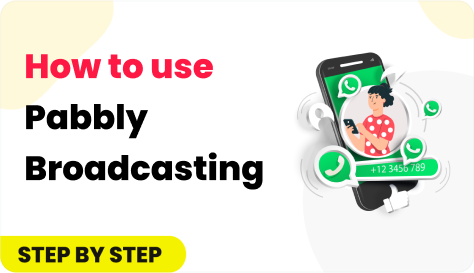
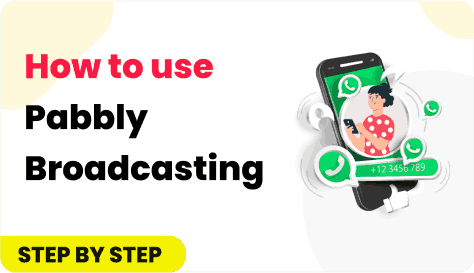
Images optimized and Solved Double Popup Open in Add Buld Contact

diff --git a/src/components/upload2/upload2.jsx b/src/components/upload2/upload2.jsx
@@ -1,34 +1,45 @@
-import React, { useState } from 'react';
-import { useDropzone } from 'react-dropzone';
+import React, { useRef, useState } from 'react';
 
-import { Box, Button, Typography, InputLabel } from '@mui/material';
+import { Box, Button, Typography } from '@mui/material';
 
-// import CloudUploadIcon from '@mui/icons-material/CloudUpload';
 import { varAlpha } from 'src/theme/styles';
 
 const FileUpload = ({ placeholder, error, disabled, sx, onFileUpload, ...other }) => {
   const [selectedFile, setSelectedFile] = useState(null);
+  const fileInputRef = useRef(null);
 
-  const onDrop = (acceptedFiles) => {
-    if (acceptedFiles.length > 0) {
-      const file = acceptedFiles[0];
+  const handleFileChange = (event) => {
+    const file = event.target.files[0];
+    if (file) {
+      setSelectedFile(file);
+      onFileUpload(file);
+    }
+    // Reset the file input value to allow selecting the same file again
+    event.target.value = '';
+  };
+
+  const handleButtonClick = (event) => {
+    event.preventDefault();
+    fileInputRef.current.click();
+  };
+
+  const handleDragOver = (event) => {
+    event.preventDefault();
+  };
+
+  const handleDrop = (event) => {
+    event.preventDefault();
+    const file = event.dataTransfer.files[0];
+    if (file && file.type === 'text/csv') {
       setSelectedFile(file);
       onFileUpload(file);
     }
   };
 
-  const { getRootProps, getInputProps, isDragActive, isDragReject } = useDropzone({
-    onDrop,
-    disabled,
-    accept: 'text/csv',
-    ...other,
-  });
-
-  const hasError = isDragReject || error;
-
   return (
     <Box
-      {...getRootProps()}
+      onDragOver={handleDragOver}
+      onDrop={handleDrop}
       sx={{
         padding: '20px 0px 20px 0px',
         width: '100%',
@@ -36,15 +47,13 @@ const FileUpload = ({ placeholder, error, disabled, sx, onFileUpload, ...other }
         display: 'flex',
         flexDirection: 'column',
         borderRadius: 1,
-        cursor: 'pointer',
         alignItems: 'center',
         color: 'text.disabled',
         justifyContent: 'center',
         bgcolor: (theme) => varAlpha(theme.vars.palette.grey['500Channel'], 0.08),
         border: (theme) => `dashed 1px ${varAlpha(theme.vars.palette.grey['500Channel'], 0.16)}`,
-        ...(isDragActive && { opacity: 0.72 }),
         ...(disabled && { opacity: 0.48, pointerEvents: 'none' }),
-        ...(hasError && {
+        ...(error && {
           color: 'error.main',
           borderColor: 'grey',
           bgcolor: (theme) => varAlpha(theme.vars.palette.grey['500Channel'], 0.08),
@@ -53,17 +62,17 @@ const FileUpload = ({ placeholder, error, disabled, sx, onFileUpload, ...other }
         ...sx,
       }}
     >
-      <InputLabel htmlFor="contained-button-file">
-        <input
-          {...getInputProps()}
-          accept="text/csv"
-          style={{ display: 'none' }}
-          id="contained-button-file"
-        />
-        <Button size="large" variant="" component="span">
-          {placeholder || 'Upload CSV File'}
-        </Button>
-      </InputLabel>
+      <input
+        type="file"
+        ref={fileInputRef}
+        onChange={handleFileChange}
+        accept=".csv"
+        style={{ display: 'none' }}
+        {...other}
+      />
+      <Button size="large" component="span" onClick={handleButtonClick} disabled={disabled}>
+        {placeholder || 'Upload CSV File'}
+      </Button>
       {selectedFile && (
         <Typography variant="body1" sx={{ mt: 2 }}>
           Selected file: {selectedFile.name}
